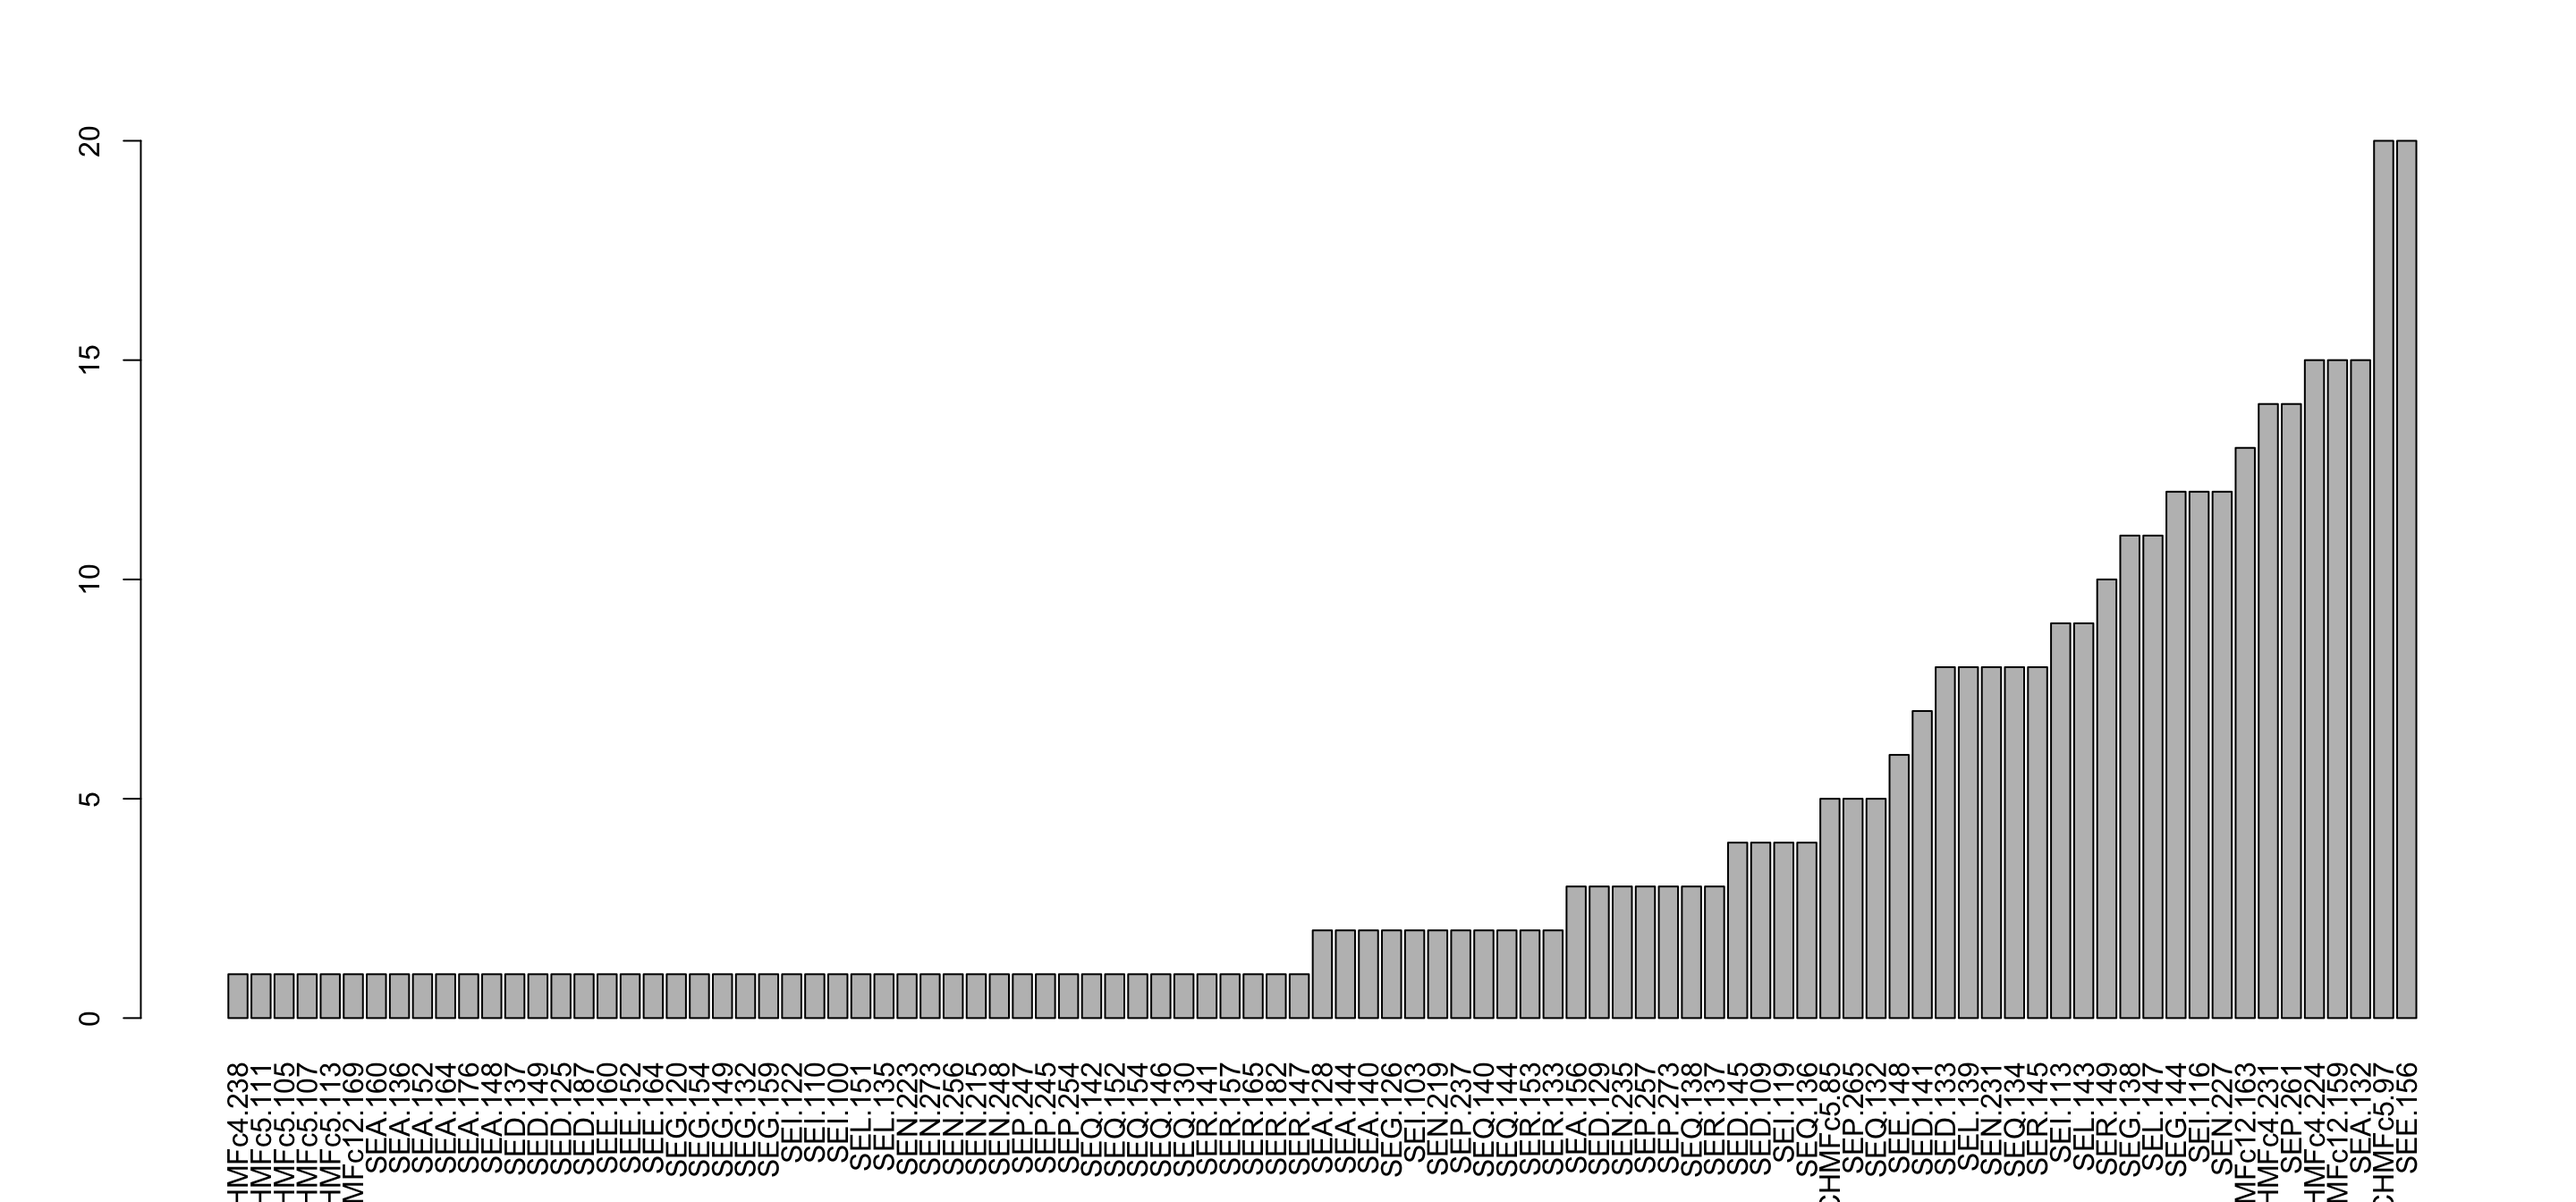
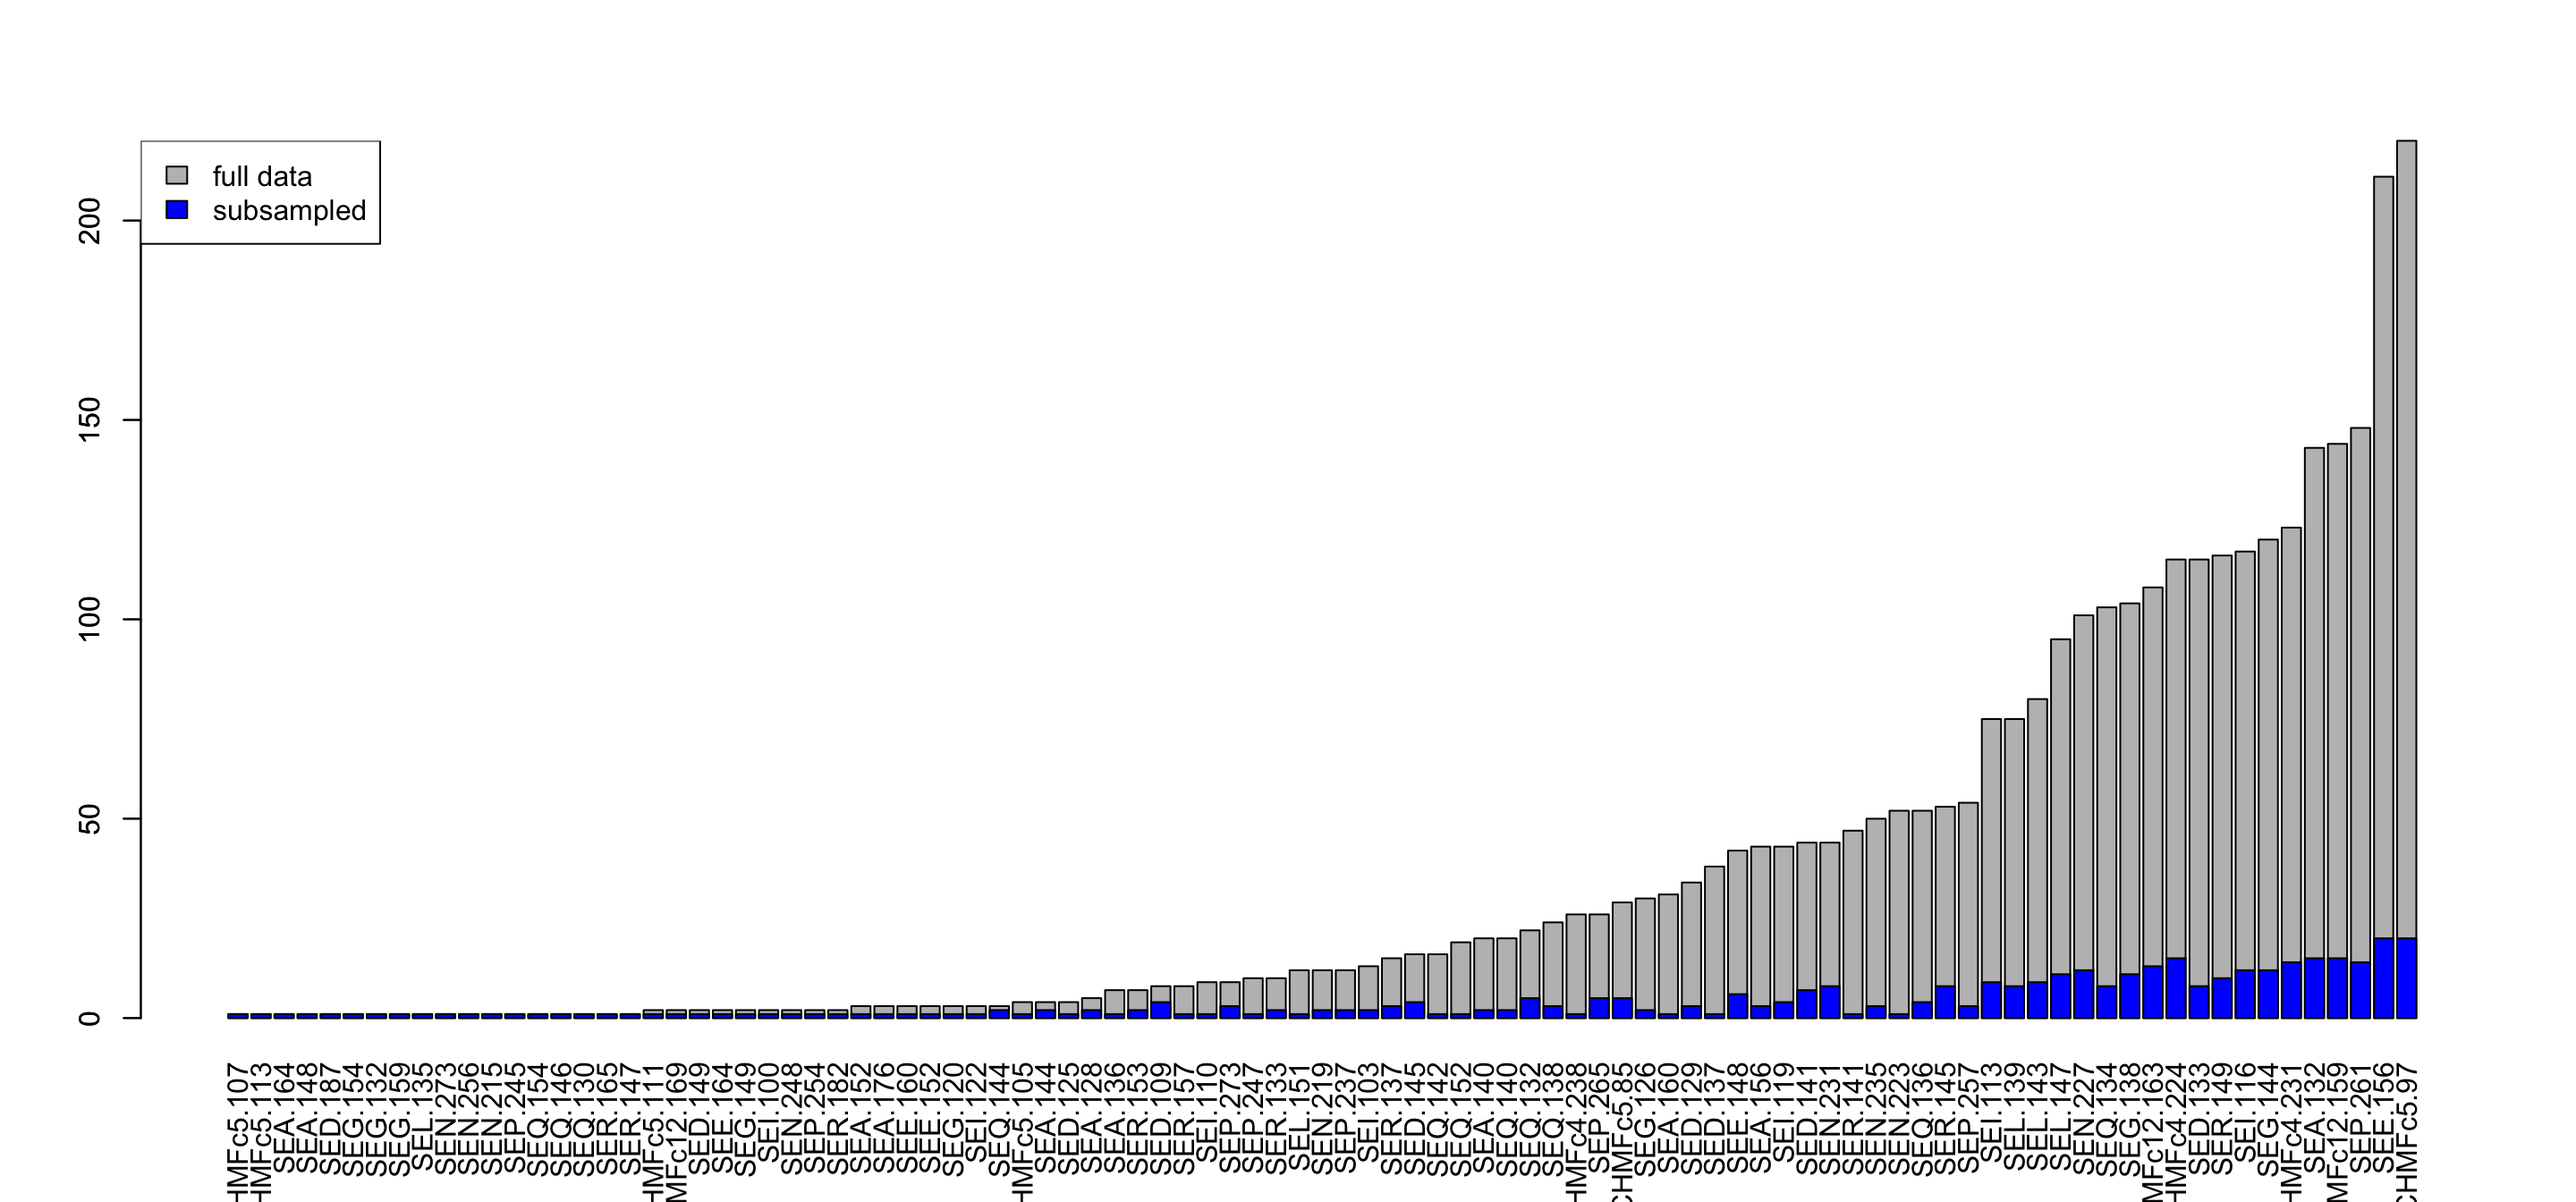
update readme

diff --git a/docs/index.html b/docs/index.html
@@ -194,11 +194,12 @@ res_sort
 <p>From here, we can see the samples</p>
 <div class="sourceCode"><pre class="sourceCode r"><code class="sourceCode r"><span class="kw">cat</span>(res_sort<span class="op">$</span>ids[[<span class="dv">1</span>]], <span class="dt">sep =</span> <span class="st">", "</span>)
 <span class="co">#&gt; A233, A610, A154, A603, A666, A163, A293, A339, A590, A071, A085, A218, A269, A074, A182, A417, A681, A176, A367, A489, A191, A172, A488, A406, A390, A404, A385, A016, A692, A168</span></code></pre></div>
-<p>And visualize the distribution:</p>
-<div class="sourceCode"><pre class="sourceCode r"><code class="sourceCode r">res_sort<span class="op">$</span>dat[[<span class="dv">1</span>]] <span class="op">%&gt;%</span>
-<span class="st">  </span><span class="kw">colSums</span>(<span class="dt">na.rm =</span> <span class="ot">TRUE</span>) <span class="op">%&gt;%</span>
-<span class="st">  </span><span class="kw">sort</span>() <span class="op">%&gt;%</span>
-<span class="st">  </span><span class="kw">barplot</span>(<span class="dt">las =</span> <span class="dv">3</span>)</code></pre></div>
+<p>We can use this to then visualize the distributon of the sub-sampled data:</p>
+<div class="sourceCode"><pre class="sourceCode r"><code class="sourceCode r">mc &lt;-<span class="st"> </span><span class="kw">colSums</span>(monilinia, <span class="dt">na.rm =</span> <span class="ot">TRUE</span>)
+<span class="kw">barplot</span>(<span class="kw">sort</span>(mc), <span class="dt">las =</span> <span class="dv">3</span>)
+rc &lt;-<span class="st"> </span><span class="kw">colSums</span>(res_sort<span class="op">$</span>dat[[<span class="dv">1</span>]], <span class="dt">na.rm =</span> <span class="ot">TRUE</span>)
+<span class="kw">barplot</span>(rc[<span class="kw">order</span>(mc)], <span class="dt">xaxt =</span> <span class="st">"n"</span>, <span class="dt">add =</span> <span class="ot">TRUE</span>, <span class="dt">col =</span> <span class="st">"blue"</span>)
+<span class="kw">legend</span>(<span class="st">"topleft"</span>, <span class="dt">fill =</span> <span class="kw">c</span>(<span class="st">"grey"</span>, <span class="st">"blue"</span>), <span class="dt">legend =</span> <span class="kw">c</span>(<span class="st">"full data"</span>, <span class="st">"subsampled"</span>))</code></pre></div>
 <p><img src="reference/figures/README-barplot-1.png" width="100%"></p>
 <div id="calculating-rpv_stats-by-groups" class="section level3">
 <h3 class="hasAnchor">
@@ -233,10 +234,8 @@ resmean_sort
 <span class="co">#&gt; 10    22 &lt;chr [30]&gt;    30 &lt;int [30 × 95]&gt;    95  4.61  3.57 0.712  0.694 0.00769</span>
 <span class="co">#&gt; # ... with 40 more rows</span></code></pre></div>
 <p>The factor can be used to color our barplot</p>
-<div class="sourceCode"><pre class="sourceCode r"><code class="sourceCode r">rd1 &lt;-<span class="st"> </span>res_sort<span class="op">$</span>dat[[<span class="dv">1</span>]] <span class="op">%&gt;%</span><span class="st"> </span><span class="kw">colSums</span>(<span class="dt">na.rm =</span> <span class="ot">TRUE</span>) 
-
-<span class="kw">sort</span>(rd1) <span class="op">%&gt;%</span>
-<span class="st">  </span><span class="kw">barplot</span>(<span class="dt">las =</span> <span class="dv">3</span>, <span class="dt">col =</span> f[<span class="kw">order</span>(rd1)])</code></pre></div>
+<div class="sourceCode"><pre class="sourceCode r"><code class="sourceCode r">rd1 &lt;-<span class="st"> </span><span class="kw">colSums</span>(resmean_sort<span class="op">$</span>dat[[<span class="dv">1</span>]], <span class="dt">na.rm =</span> <span class="ot">TRUE</span>) 
+<span class="kw">barplot</span>(rd1[<span class="kw">order</span>(mc)], <span class="dt">las =</span> <span class="dv">3</span>, <span class="dt">col =</span> f[<span class="kw">order</span>(mc)])</code></pre></div>
 <p><img src="reference/figures/README-barplot2-1.png" width="100%"></p>
 </div>
 </div>

diff --git a/README.md b/README.md
@@ -158,13 +158,14 @@ cat(res_sort$ids[[1]], sep = ", ")
 #> A233, A610, A154, A603, A666, A163, A293, A339, A590, A071, A085, A218, A269, A074, A182, A417, A681, A176, A367, A489, A191, A172, A488, A406, A390, A404, A385, A016, A692, A168
 ```
 
-And visualize the distribution:
+We can use this to then visualize the distributon of the sub-sampled data:
 
 ``` r
-res_sort$dat[[1]] %>%
-  colSums(na.rm = TRUE) %>%
-  sort() %>%
-  barplot(las = 3)
+mc <- colSums(monilinia, na.rm = TRUE)
+barplot(sort(mc), las = 3)
+rc <- colSums(res_sort$dat[[1]], na.rm = TRUE)
+barplot(rc[order(mc)], xaxt = "n", add = TRUE, col = "blue")
+legend("topleft", fill = c("grey", "blue"), legend = c("full data", "subsampled"))
 ```
 
 <img src="man/figures/README-barplot-1.png" width="100%" />
@@ -207,10 +208,8 @@ resmean_sort
 The factor can be used to color our barplot
 
 ``` r
-rd1 <- res_sort$dat[[1]] %>% colSums(na.rm = TRUE) 
-
-sort(rd1) %>%
-  barplot(las = 3, col = f[order(rd1)])
+rd1 <- colSums(resmean_sort$dat[[1]], na.rm = TRUE) 
+barplot(rd1[order(mc)], las = 3, col = f[order(mc)])
 ```
 
 <img src="man/figures/README-barplot2-1.png" width="100%" />
